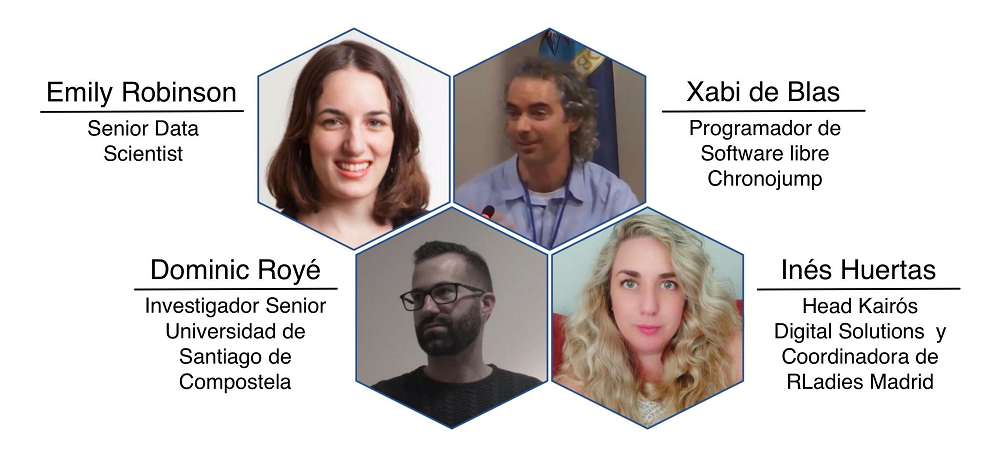
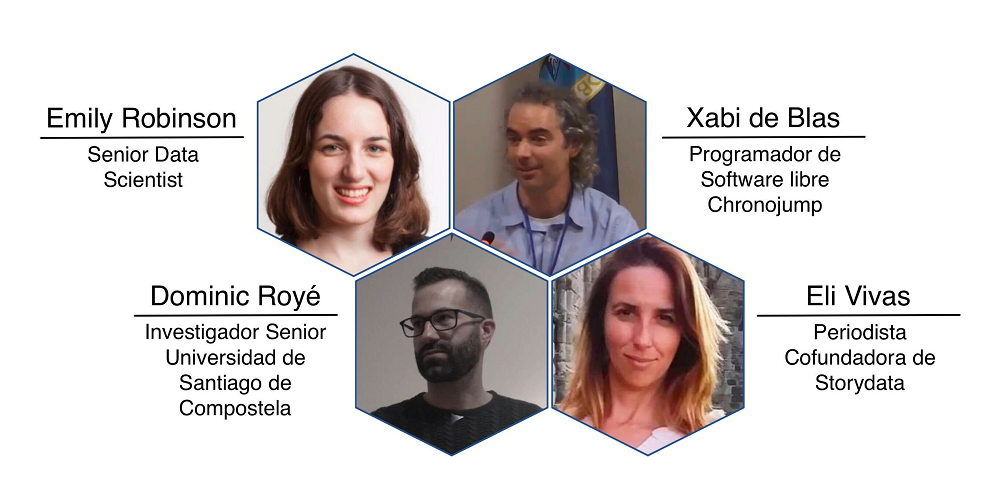
imagen speaker

diff --git a/index.html b/index.html
@@ -245,7 +245,7 @@
       <div class="col-lg-8 col-lg-offset-2">
 	<h2> Comunicaciones y talleres </h2>
 	<p><b>El plazo de envío de comunicaciones terminó el pasado 30 de septiembre. Aquí puedes encontrar la primera versión del libro de resúmenes indicando sesiones y horarios:  </b></p>
-	<p> <a href="pdf/listadocomunicaciones.pdf" target="_blank"> Libro de comunicaciones (actualizado 1 noviembre)</a> </p>
+	<p> <a href="pdf/listadocomunicaciones.pdf" target="_blank"> Libro de comunicaciones (actualizado 3 noviembre)</a> </p>
 	</div>
 	</div>
 </section>
@@ -256,11 +256,11 @@
 
 
 
-<!--<p> Invitados para las sesiones plenarias</p>
+<p> Invitados para las sesiones plenarias</p>
 
             <img class="img-responsive center-block" src="img/speakers_1000.png" title="Keynote speakers"  alt = Keynote speakers/>
 
-        <br>-->
+        <br>
         <br>
         <br>
     <div class="row">
